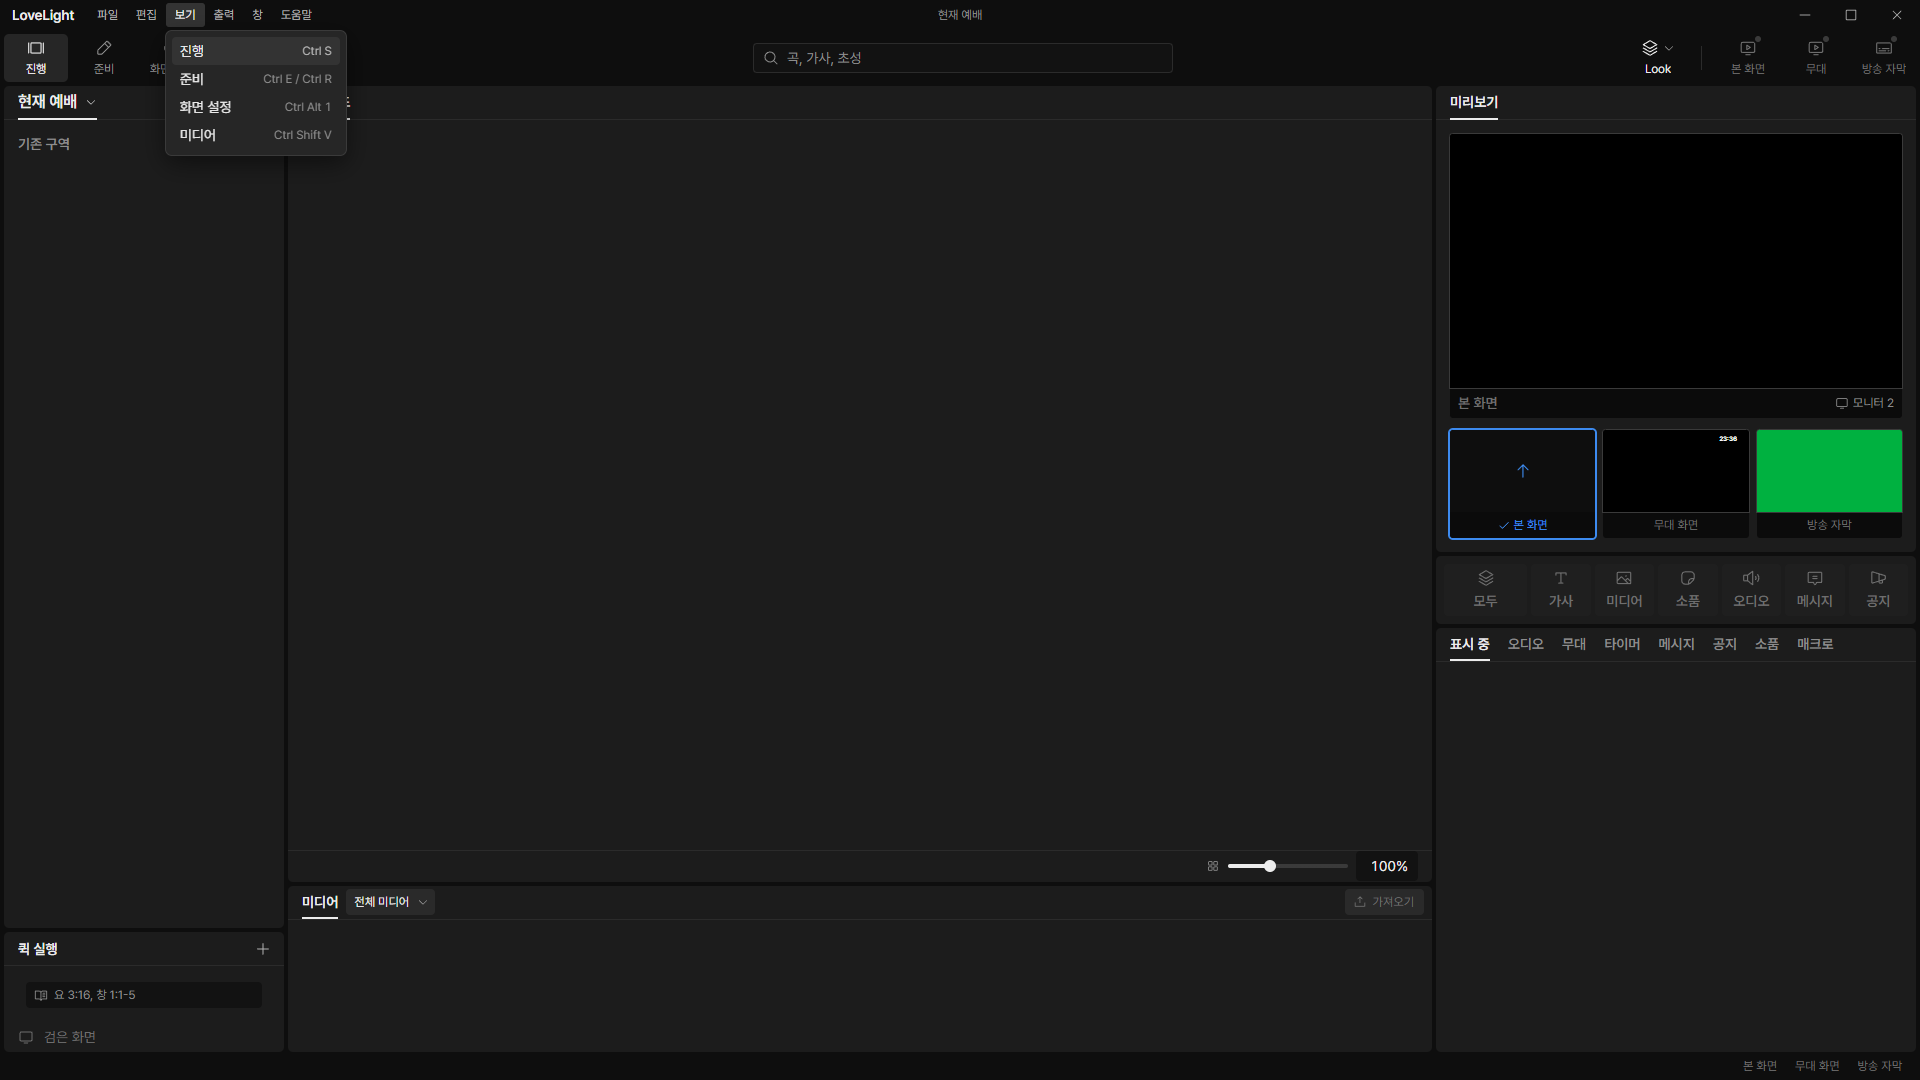
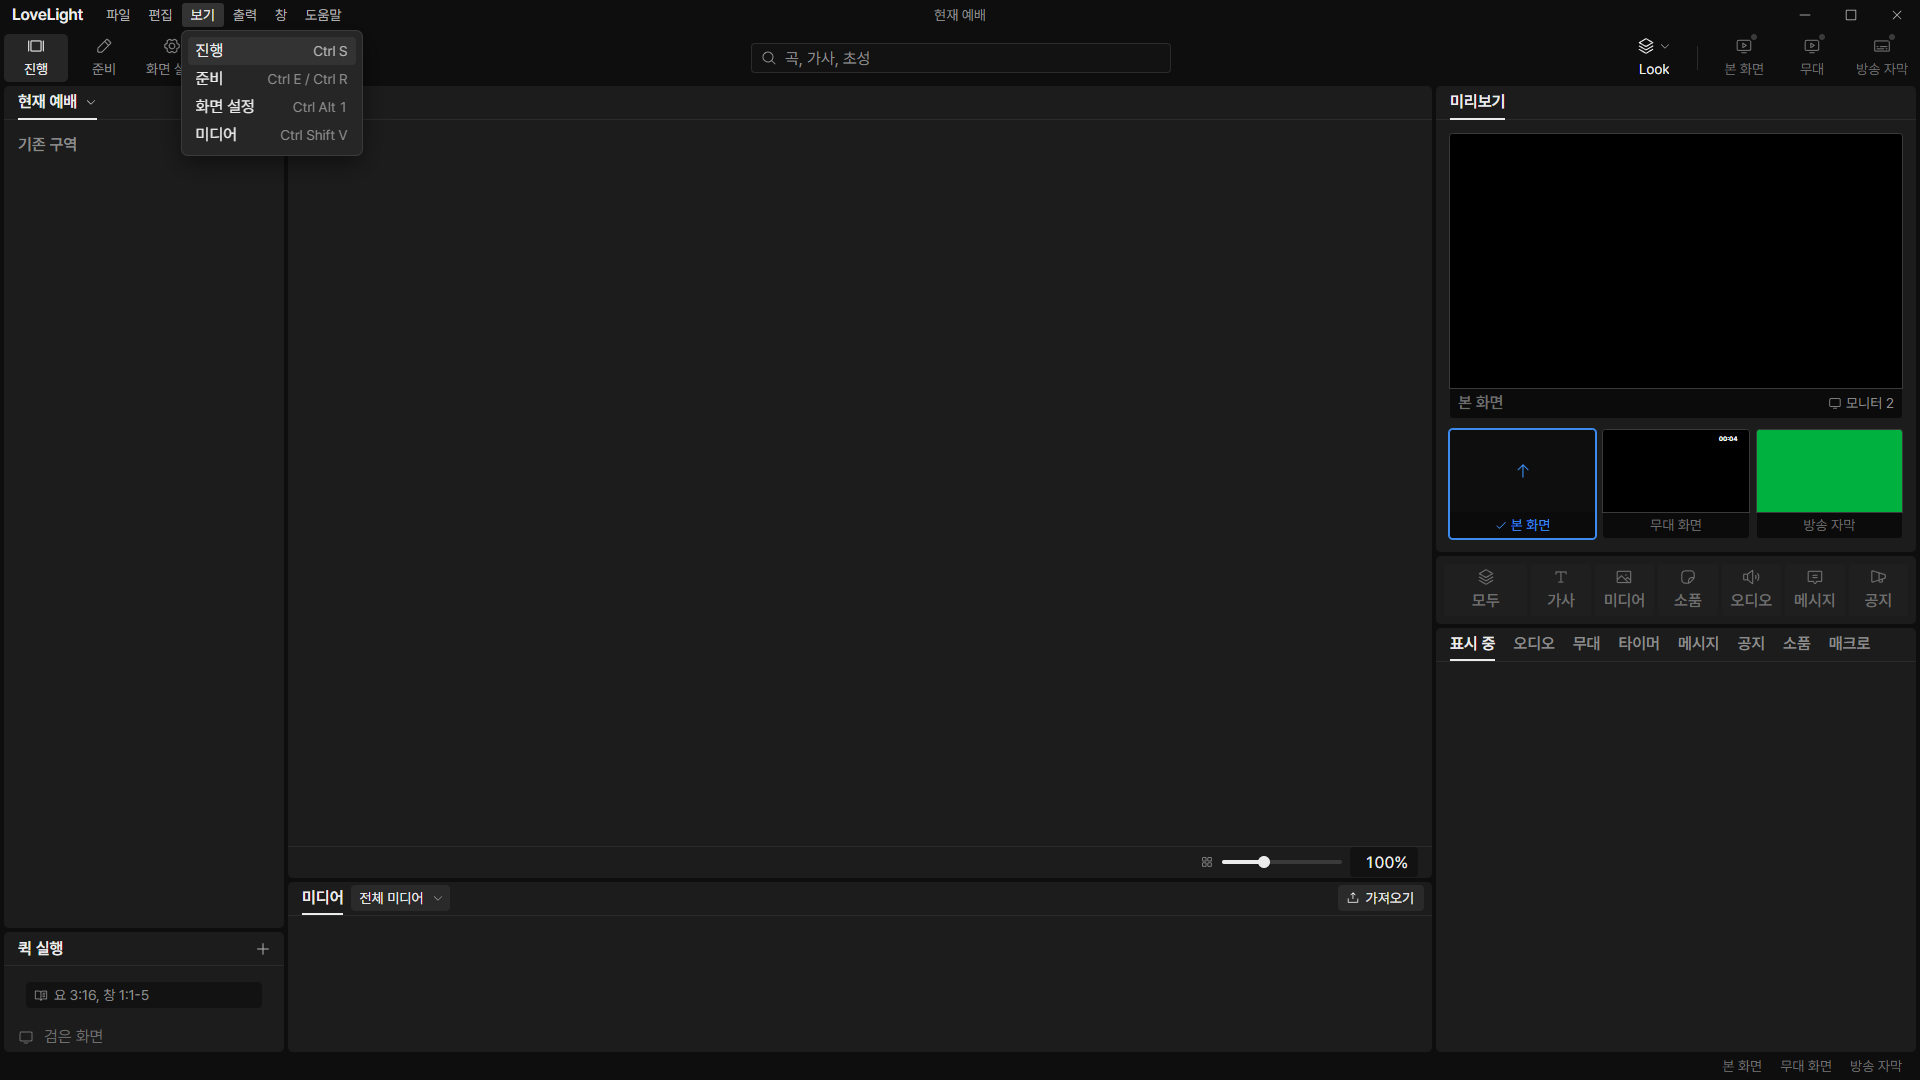
fix(shell): preserve pointer drag shortcut precedence

diff --git a/src/renderer/src/shell/windowShortcuts.ts b/src/renderer/src/shell/windowShortcuts.ts
@@ -3,6 +3,8 @@ import {isColumnDragActive} from '@renderer/state/drag';
 import {modalStack} from '@renderer/ui/modalStack';
 import {SHORTCUT_RECORDING_SELECTOR} from '@renderer/ui/shortcutRecording';
 
+const POINTER_DRAG_THRESHOLD_PX = 4;
+
 /** A physical control-window key, after fields and popup surfaces take theirs. */
 export interface WindowShortcut {
   readonly code: string;
@@ -45,6 +47,30 @@ export function useWindowShortcuts(shortcuts: readonly WindowShortcut[]): void {
   useEffect(() => {
     let composing = false;
     let dragging = false;
+    let pointer: {id: number; x: number; y: number; dragged: boolean} | null =
+      null;
+    const pointerDown = (event: PointerEvent): void => {
+      if (event.button === 0) {
+        pointer = {
+          id: event.pointerId,
+          x: event.clientX,
+          y: event.clientY,
+          dragged: false,
+        };
+      }
+    };
+    const pointerMove = (event: PointerEvent): void => {
+      if (pointer?.id !== event.pointerId) return;
+      pointer.dragged ||=
+        Math.hypot(event.clientX - pointer.x, event.clientY - pointer.y) >
+        POINTER_DRAG_THRESHOLD_PX;
+    };
+    const pointerEnd = (): void => {
+      pointer = null;
+    };
+    const cancelPointer = (event: KeyboardEvent): void => {
+      if (event.code === 'Escape') pointerEnd();
+    };
     const startComposition = (): void => {
       composing = true;
     };
@@ -60,15 +86,22 @@ export function useWindowShortcuts(shortcuts: readonly WindowShortcut[]): void {
     const reset = (): void => {
       endComposition();
       endDrag();
+      pointerEnd();
     };
     const keyDown = (event: KeyboardEvent): void => {
-      if (!composing && !dragging) run(event);
+      if (!composing && !dragging && pointer?.dragged !== true) run(event);
     };
     window.addEventListener('compositionstart', startComposition, true);
     window.addEventListener('compositionend', endComposition, true);
     window.addEventListener('dragstart', startDrag, true);
     window.addEventListener('dragend', endDrag, true);
     window.addEventListener('drop', endDrag, true);
+    window.addEventListener('pointerdown', pointerDown, true);
+    window.addEventListener('pointermove', pointerMove, true);
+    window.addEventListener('pointerup', pointerEnd, true);
+    window.addEventListener('pointercancel', pointerEnd, true);
+    window.addEventListener('lostpointercapture', pointerEnd, true);
+    window.addEventListener('keydown', cancelPointer, true);
     window.addEventListener('blur', reset);
     window.addEventListener('keydown', keyDown);
     return () => {
@@ -77,6 +110,12 @@ export function useWindowShortcuts(shortcuts: readonly WindowShortcut[]): void {
       window.removeEventListener('dragstart', startDrag, true);
       window.removeEventListener('dragend', endDrag, true);
       window.removeEventListener('drop', endDrag, true);
+      window.removeEventListener('pointerdown', pointerDown, true);
+      window.removeEventListener('pointermove', pointerMove, true);
+      window.removeEventListener('pointerup', pointerEnd, true);
+      window.removeEventListener('pointercancel', pointerEnd, true);
+      window.removeEventListener('lostpointercapture', pointerEnd, true);
+      window.removeEventListener('keydown', cancelPointer, true);
       window.removeEventListener('blur', reset);
       window.removeEventListener('keydown', keyDown);
     };

diff --git a/src/renderer/src/shell/windowShortcuts.test.tsx b/src/renderer/src/shell/windowShortcuts.test.tsx
@@ -1,8 +1,17 @@
-import {act, cleanup, fireEvent, renderHook} from '@testing-library/react';
+import {
+  act,
+  cleanup,
+  fireEvent,
+  render,
+  renderHook,
+  screen,
+} from '@testing-library/react';
 import {afterEach, describe, expect, it, vi} from 'vitest';
 import {setColumnDragActive} from '@renderer/state/drag';
 import {modalStack} from '@renderer/ui/modalStack';
 import {useWindowShortcuts} from './windowShortcuts';
+import {workspaceShortcuts} from './workspaceCommands';
+import {useQuickDrag} from '@renderer/show/quick/useQuickDrag';
 
 function press(
   options: KeyboardEventInit = {},
@@ -29,6 +38,59 @@ afterEach(() => {
 });
 
 describe('window shortcuts', () => {
+  it('blocks workspace keys during actual quick-list pointer reordering and releases them on drop', () => {
+    const onWorkspace = vi.fn();
+    function QuickList() {
+      const drag = useQuickDrag({enabled: true, revision: 1, onMove: vi.fn()});
+      useWindowShortcuts(
+        workspaceShortcuts({onWorkspace, onMedia: vi.fn(), imported: false}),
+      );
+      return (
+        <div {...drag.listProps}>
+          <div data-quick-id="first">
+            <button>First quick item</button>
+          </div>
+          <div data-quick-id="second">
+            <button>Second quick item</button>
+          </div>
+        </div>
+      );
+    }
+    render(<QuickList />);
+    const first = screen.getByRole('button', {name: 'First quick item'});
+    const pointer = {pointerId: 1, button: 0, clientX: 10, clientY: 10};
+    fireEvent.pointerDown(first, pointer);
+    fireEvent.pointerMove(window, {...pointer, clientY: 30});
+    expect(press().defaultPrevented).toBe(false);
+    expect(press({code: 'KeyR'}).defaultPrevented).toBe(false);
+    expect(onWorkspace).not.toHaveBeenCalled();
+    expect(screen.getByRole('button', {name: 'First quick item'})).toBe(first);
+    fireEvent.pointerUp(window, {...pointer, clientY: 30});
+    press();
+    expect(onWorkspace).toHaveBeenCalledExactlyOnceWith('prep');
+  });
+
+  it.each(['pointercancel', 'lostpointercapture', 'blur', 'escape'])(
+    'releases pointer drag precedence after %s',
+    ending => {
+      const run = vi.fn();
+      renderHook(() => useWindowShortcuts([{code: 'KeyE', ctrl: true, run}]));
+      fireEvent.pointerDown(document.body, {
+        pointerId: 1,
+        button: 0,
+        clientX: 0,
+        clientY: 0,
+      });
+      fireEvent.pointerMove(window, {pointerId: 1, clientX: 10, clientY: 0});
+      press();
+      expect(run).not.toHaveBeenCalled();
+      if (ending === 'escape') press({code: 'Escape', ctrlKey: false});
+      else fireEvent(window, new Event(ending));
+      press();
+      expect(run).toHaveBeenCalledOnce();
+    },
+  );
+
   it('matches physical modifiers exactly and swallows held repeats without rerunning', () => {
     const run = vi.fn();
     renderHook(() => useWindowShortcuts([{code: 'KeyE', ctrl: true, run}]));

diff --git a/docs/reviews/spec-60.md b/docs/reviews/spec-60.md
@@ -3,7 +3,7 @@
 - Team member: `spec` (Codex)
 - Branch: `fix/spec/shortcut-alignment`
 - Base, range, and exact-head CI: see the request message
-- Review round: 1
+- Review round: 2
 - Task: freeze-authorized ProPresenter shortcut audit and first alignment unit
 
 ## What changed and why
@@ -35,27 +35,43 @@ recorded with the submission.
 
 ## Checked in the app
 
-Built with `npm run build`, then ran the real app through electron-vite with
-`LLP_TEST_WINDOWS=offscreen`, dev port 5193, CDP 9517, and an isolated worktree
-fixture. Ran `node --check` on both driver and launch entry before Electron.
+Built with `npm run build`, then ran the real app with
+`LLP_TEST_WINDOWS=offscreen`, the built renderer served on dev port 5193, CDP
+9517, and an isolated worktree fixture. Ran `node --check` on the driver,
+server, and main launch entry before Electron. This also avoids the dev
+optimizer startup that stalled one earlier attempt after the rebase.
 
-After warming all three workspaces, made 20 preparation/settings/show round
+After warming all three workspaces, made 30 preparation/settings/show round
 trips using both Ctrl E and Ctrl R. Opened/closed the View menu twice and
 toggled media open/closed twice. Confirmed an open menu blocks workspace keys,
 Ctrl R never reloads, and live layers remain identical. All app/dev processes
-were stopped afterwards.
+were stopped afterwards. During a real quick-list pointer drag past the
+threshold, Ctrl E/R kept 진행 and its dragged list mounted. Escape and release
+restored workspace switching. Live layers stayed unchanged throughout.
 
-Elements stayed at 474, DOM nodes at 1595, and listeners at 382. Collected heap
-was 15.88, 16.21, then 16.18 MB, reaching a plateau. The first cold run exceeded
-the memory allowance; repeating after warming the actual screen destinations
-distinguished startup allocation from continued growth. No renderer exceptions
-occurred. [Measurements](spec-60/measurements.json).
+On the rebased round-2 tree, elements stayed at 399, DOM nodes at 1444, and
+listeners at 387. Collected heap was 6.53, 6.71, 6.81, then 6.90 MB, bounded
+within 0.38 MB during the repeated flow, with no DOM/listener accumulation. No
+renderer exceptions occurred. [Measurements](spec-60/measurements.json).
 
 ![View menu uses the workspace defaults](spec-60/view-workspace-menu.png)
 
 ![Preparation opened through its keyboard shortcut](spec-60/prep-via-key.png)
 
+![Quick-list pointer drag keeps workspace keys inactive](spec-60/quick-drag-key-guard.png)
+
 ## Changes outside my paths
 
 The lead assigned shell/control implementation and the audit to this member. No
 data contract, output clear handler, or another member's worktree changes.
+
+## Team member's reply
+
+1. The window shortcut guard now also tracks primary pointer movement across the
+   4 px reorder threshold. This covers quick-list and arrangement drags without
+   depending on native `dragstart`. Pointer release/cancellation, lost capture,
+   Escape and blur release the guard; effect cleanup removes the listeners.
+   Added a regression using the real `useQuickDrag` hook, proving Ctrl E/R leave
+   its list mounted during reordering and work after release, plus
+   cancellation-path coverage. Rebased onto local main and repeated the scoped
+   and app checks before round 2.
